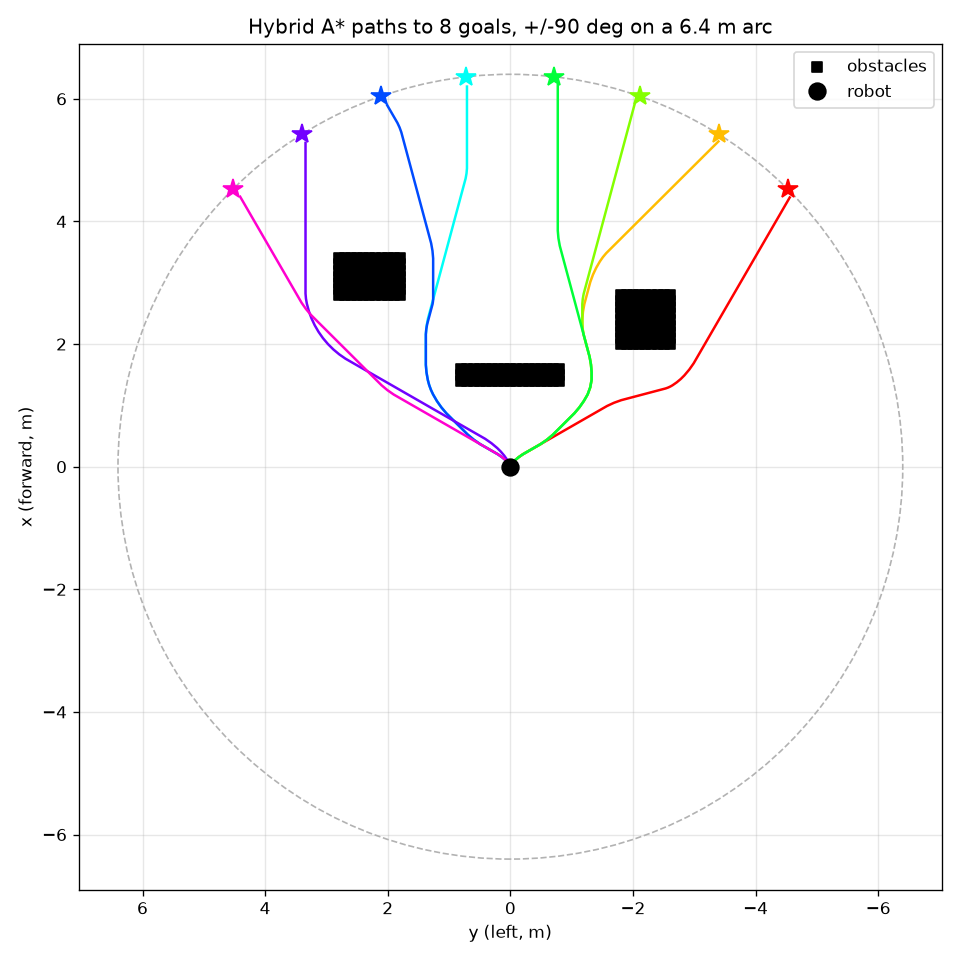
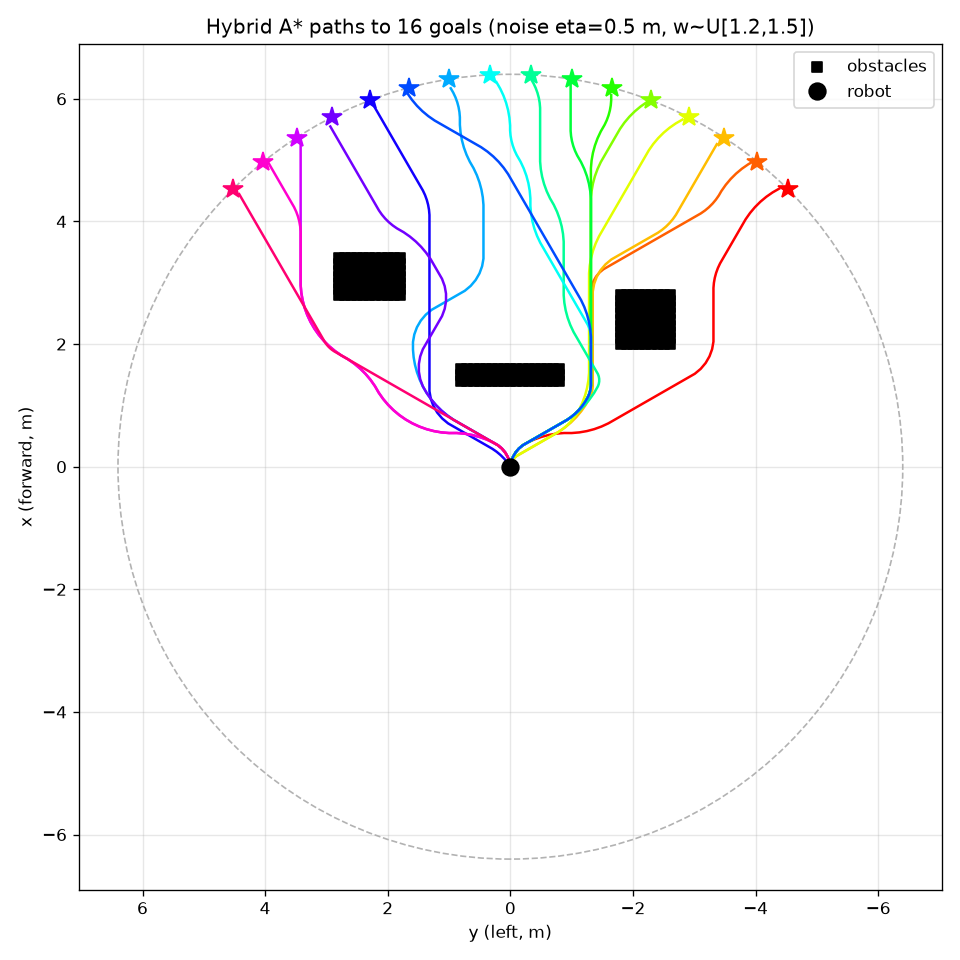
Added stochastic A* implementation

diff --git a/src/navigation/domain.h b/src/navigation/domain.h
@@ -51,6 +51,8 @@ struct DifferentialDomain {
   static constexpr float kGoalTolerance = 0.2f;
   // Turn penalty (m per rad) so rotations are never zero-cost.
   static constexpr float kTurnPenalty = 0.1f;
+  // Correlation length (m) of the cost-map noise field: larger = wider lanes.
+  static constexpr float kNoiseCorrLength = 1.0f;
 
   struct State {
     Eigen::Vector2f loc = Eigen::Vector2f::Zero();  // x, y (m)
@@ -71,11 +73,16 @@ struct DifferentialDomain {
     void DrawEdge(const State&, const State&) {}
   };
 
+  // seed / noise_eta parameterize the optional cost-map noise. noise_eta is the
+  // magnitude (in meters) of a smooth potential added to edge costs; 0 (default)
+  // disables it and reproduces the deterministic planner.
   DifferentialDomain(const navigation::NavigationParams& params,
                      const Eigen::Vector2f& origin,
                      float world_size,
                      const Eigen::Vector2f& goal,
-                     const std::vector<Eigen::Vector2f>& point_cloud)
+                     const std::vector<Eigen::Vector2f>& point_cloud,
+                     uint64_t seed = 0,
+                     float noise_eta = 0.0f)
       : params_(params),
         origin_(origin),
         world_size_(world_size),
@@ -84,7 +91,9 @@ struct DifferentialDomain {
         kMapHeight(kMapWidth),
         dtheta_(2.0f * static_cast<float>(M_PI) / kNumAngles),
         robot_radius_(params.robot_width / 2.0f + params.obstacle_margin),
-        point_cloud_(point_cloud) {
+        point_cloud_(point_cloud),
+        seed_(seed),
+        noise_eta_(noise_eta) {
     // Precompute the (v, omega) control grid over the global velocity bounds.
     const float vmax = params_.linear_limits.max_speed;
     const float wmax = params_.angular_limits.max_speed;
@@ -170,7 +179,10 @@ struct DifferentialDomain {
       if (!InBounds(end.loc)) continue;
 
       succ->push_back(end);
-      costs->push_back(std::fabs(v_c) * T + kTurnPenalty * std::fabs(w_c) * T);
+      // Base arc-length + turn cost, plus a smooth non-negative cost-map
+      // potential (eta * N in [0, eta]) so edges stay strictly positive.
+      const float base = std::fabs(v_c) * T + kTurnPenalty * std::fabs(w_c) * T;
+      costs->push_back(base + noise_eta_ * SmoothNoise(end.loc));
     }
   }
 
@@ -227,6 +239,38 @@ struct DifferentialDomain {
     return ab;
   }
 
+  // ---- Smooth cost-map noise (deterministic value noise) ----
+
+  static float Fade(float t) { return t * t * t * (t * (t * 6 - 15) + 10); }
+
+  // Hash of integer lattice node (ix, iy) and the seed to a value in [0, 1).
+  float LatticeValue(int ix, int iy) const {
+    uint64_t h = (static_cast<uint64_t>(static_cast<uint32_t>(ix)) << 32) ^
+                 static_cast<uint32_t>(iy) ^ (seed_ + 0x9e3779b97f4a7c15ULL);
+    h = (h ^ (h >> 30)) * 0xbf58476d1ce4e5b9ULL;  // splitmix64
+    h = (h ^ (h >> 27)) * 0x94d049bb133111ebULL;
+    h ^= (h >> 31);
+    return (h >> 11) * (1.0f / 9007199254740992.0f);
+  }
+
+  // Low-frequency value noise in [0, 1): random values on a lattice with spacing
+  // kNoiseCorrLength, smootherstep-interpolated. Unlike per-cell white noise this
+  // is spatially correlated, so it shifts which lane looks cheaper instead of
+  // just adding jitter that discretizes away.
+  float SmoothNoise(const Eigen::Vector2f& p) const {
+    const float s = p.x() / kNoiseCorrLength;
+    const float t = p.y() / kNoiseCorrLength;
+    const int x0 = static_cast<int>(std::floor(s));
+    const int y0 = static_cast<int>(std::floor(t));
+    const float fx = Fade(s - x0);
+    const float fy = Fade(t - y0);
+    const float a = LatticeValue(x0, y0) +
+                    fx * (LatticeValue(x0 + 1, y0) - LatticeValue(x0, y0));
+    const float b = LatticeValue(x0, y0 + 1) +
+                    fx * (LatticeValue(x0 + 1, y0 + 1) - LatticeValue(x0, y0 + 1));
+    return a + fy * (b - a);
+  }
+
   navigation::NavigationParams params_;
   Eigen::Vector2f origin_;
   float world_size_;
@@ -236,6 +280,8 @@ struct DifferentialDomain {
   float dtheta_;
   float robot_radius_;
   std::vector<Eigen::Vector2f> point_cloud_;
+  uint64_t seed_;
+  float noise_eta_;
   std::vector<std::pair<float, float>> controls_;
   std::shared_ptr<motion_primitives::Wavefront> wavefront_;
 };

diff --git a/src/navigation/python_bindings.cc b/src/navigation/python_bindings.cc
@@ -22,11 +22,19 @@ namespace {
 // Plans a differential-drive hybrid A* path from rest at the origin to `goal`,
 // avoiding the base_link `point_cloud`. Returns an (N, 5) array of the densified
 // trajectory: columns [x, y, theta, v, omega].
+//
+// `noise` (eta, meters) adds a smooth seeded cost-map potential so paths
+// diversify in corridors; `weight` (>= 1) is the weighted-A* heuristic factor
+// (greedier/faster). Both default to off (noise=0, weight=1) and are
+// reproducible given `seed`.
 py::array_t<float> plan(
     py::array_t<float, py::array::c_style | py::array::forcecast> point_cloud,
     std::pair<float, float> goal,
     const std::string& config_path,
-    float world_size) {
+    float world_size,
+    uint64_t seed,
+    float noise,
+    float weight) {
   const auto buf = point_cloud.unchecked<2>();
   if (buf.shape(1) != 2) {
     throw std::invalid_argument("point_cloud must have shape (N, 2)");
@@ -44,11 +52,12 @@ py::array_t<float> plan(
   const navigation::DifferentialDomain::State goal_state(goal.first, goal.second,
                                                          0.0f, 0.0f, 0.0f);
   navigation::DifferentialDomain domain(params, origin, world_size,
-                                        goal_state.loc, cloud);
+                                        goal_state.loc, cloud, seed, noise);
 
   navigation::DifferentialDomain::NullVisualizer viz;
   std::vector<navigation::DifferentialDomain::State> path;
-  const bool found = navigation::AStar(start, goal_state, domain, &viz, &path);
+  const bool found =
+      navigation::AStar(start, goal_state, domain, &viz, &path, weight);
 
   // Densify each edge by replaying its constant control through the same
   // integrator the planner used, yielding continuous (x, y, theta, v, omega).
@@ -83,6 +92,11 @@ PYBIND11_MODULE(hybrid_astar, m) {
   m.def("plan", &plan, py::arg("point_cloud"), py::arg("goal"),
         py::arg("config_path") = "config/navigation.lua",
         py::arg("world_size") = 12.8f,
+        py::arg("seed") = 0,
+        py::arg("noise") = 0.0f,
+        py::arg("weight") = 1.0f,
         "Plan from rest at the origin to goal=(x, y) around a 2D point cloud "
-        "(Nx2, base_link frame). Returns (N, 5): x, y, theta, v, omega.");
+        "(Nx2, base_link frame). seed/noise add a smooth cost-map potential "
+        "(noise=eta in meters, 0=off); weight>=1 is the weighted-A* heuristic "
+        "factor (1=optimal). Returns (N, 5): x, y, theta, v, omega.");
 }

diff --git a/src/navigation/astar.h b/src/navigation/astar.h
@@ -86,12 +86,15 @@ struct QueueCompare {
 //   float    Heuristic(const State&, const State& goal)
 //   bool     AtGoal(const State&, const State& goal)
 //   void     GetSuccessors(const State&, vector<State>*, vector<float>* costs)
+// heuristic_weight w >= 1 gives weighted A* (f = g + w*h): larger w is greedier
+// and faster but sacrifices optimality. w = 1 (default) is standard A*.
 template <class Domain, class Visualizer>
 bool AStar(const typename Domain::State& start,
            const typename Domain::State& goal,
            const Domain& domain,
            Visualizer* const viz,
-           std::vector<typename Domain::State>* path) {
+           std::vector<typename Domain::State>* path,
+           float heuristic_weight = 1.0f) {
   using State = typename Domain::State;
   static CumulativeFunctionTimer function_timer_(__FUNCTION__);
   CumulativeFunctionTimer::Invocation invoke(&function_timer_);
@@ -99,7 +102,7 @@ bool AStar(const typename Domain::State& start,
   // search fans out over free space until it hits this cap, so the ceiling is
   // roughly kMaxEdgeExpansions * per-expansion cost. Sized to keep the worst
   // case under ~0.2 s while still solving every goal in the demo scene.
-  static const uint64_t kMaxEdgeExpansions = 8500;
+  static const uint64_t kMaxEdgeExpansions = 10000;
   static const bool kDebug = false;
 
   std::unordered_map<uint64_t, uint64_t> parent_map_;
@@ -117,7 +120,9 @@ bool AStar(const typename Domain::State& start,
   const uint64_t k_start = domain.StateToKey(start);
   g_values_[k_start] = 0;
   state_map_[k_start] = start;
-  queue.push({AStarPriority(0, domain.Heuristic(start, goal)), k_start});
+  queue.push(
+      {AStarPriority(0, heuristic_weight * domain.Heuristic(start, goal)),
+       k_start});
 
   const double t_start = GetMonotonicTime();
 
@@ -162,7 +167,7 @@ bool AStar(const typename Domain::State& start,
         g_values_[k_next] = g;
         state_map_[k_next] = s_next;
         const float h = domain.Heuristic(s_next, goal);
-        queue.push({AStarPriority(g, h), k_next});
+        queue.push({AStarPriority(g, heuristic_weight * h), k_next});
         viz->DrawEdge(s_current, s_next);
       }
     }

diff --git a/scripts/plot_plan.py b/scripts/plot_plan.py
@@ -29,7 +29,7 @@ def rect(x0, x1, y0, y1, step=0.1):
     return np.column_stack([gx.ravel(), gy.ravel()])
 
 
-def main(num_goals=16, radius=6.4):
+def main(num_goals=16, radius=6.4, noise=0.5):
     # Rectangular obstacles in base_link coordinates (x fwd, y left).
     cloud = np.vstack([
         rect(1.4, 1.6, -0.8, 0.8),    # wall straight ahead
@@ -54,7 +54,11 @@ def main(num_goals=16, radius=6.4):
     reached = 0
     for i, (gx, gy) in enumerate(goals):
         color = cmap(i / num_goals)
-        path = hybrid_astar.plan(cloud, (float(gx), float(gy)), config_path=config)
+        # Per-goal seed + randomized weighted-A* factor so paths diversify
+        # instead of collapsing onto the same corridor. w >= 1.2 keeps the
+        # noise-inflated search within the expansion cap. Seeded for reproducibility.
+        weight = np.random.default_rng(i).uniform(1.3, 2.0)
+        path = hybrid_astar.plan(cloud, (float(gx), float(gy)), config_path=config, seed=i, noise=noise, weight=float(weight))
         ax.plot(gy, gx, "*", color=color, ms=12, zorder=4)
         if path.shape[0] == 0:
             ax.plot(gy, gx, "x", color="red", ms=10, mew=2, zorder=5)
@@ -72,7 +76,7 @@ def main(num_goals=16, radius=6.4):
     ax.set_xlabel("y (left, m)")
     ax.set_ylabel("x (forward, m)")
     ax.set_title(
-        f"Hybrid A* paths to {num_goals} goals, +/-90 deg on a {radius} m arc")
+        f"Hybrid A* paths to {num_goals} goals (noise eta={noise} m, w~U[1.2,1.5])")
     ax.invert_xaxis()
     ax.axis("equal")
     ax.grid(True, alpha=0.3)

diff --git a/README.md b/README.md
@@ -41,6 +41,38 @@ python scripts/plot_plan.py
 
 ![Example hybrid A* plan](plan.png)
 
+## Tuning path diversity
+
+`plan()` is deterministic and optimal by default (`noise=0`, `weight=1`). Two
+optional, composable knobs make paths diverge in corridors/chokepoints instead
+of collapsing onto the single optimal line, and trade greedy vs thorough search:
+
+```python
+hybrid_astar.plan(cloud, goal, seed=i, noise=0.2, weight=1.3)
+```
+
+- `noise` (eta, meters): magnitude of a smooth, seeded cost-map potential added
+  to edge costs. Larger = more deviation. `0` disables it.
+- `weight` (>= 1): weighted-A* heuristic factor `f = g + weight * h`. Higher =
+  greedier and faster, settling on the first "good enough" route instead of the
+  strict optimum.
+- `seed`: fixes the noise field; same `(seed, noise, weight)` reproduces the
+  exact path. Different seeds give different routes to the same goal.
+
+To increase randomness further:
+
+- Shorten the noise correlation length (lane width) via `kNoiseCorrLength` in
+  [src/navigation/domain.h](src/navigation/domain.h) (e.g. 2.0 -> 1.0-1.5 m):
+  more, finer lanes. Below ~0.5 m it degrades to jitter that discretizes away.
+- Raise `noise` and/or widen the `weight` range (e.g. `U(1.3, 2.0)`).
+- Vary `seed` more aggressively across runs.
+
+Tradeoff: noise makes the search less directed, so high `noise` at `weight=1`
+can exceed the expansion cap (`kMaxEdgeExpansions` in
+[src/navigation/astar.h](src/navigation/astar.h)) and fail to find a path. Keep
+`weight >= ~1.2` with moderate `noise` (the demo uses `noise=0.2`,
+`weight~U(1.2,1.5)`), or raise the cap if you want large `noise` at `weight=1`.
+
 ## Additional details
 
 - Run both demos from the repo root so `config/navigation.lua` resolves.
